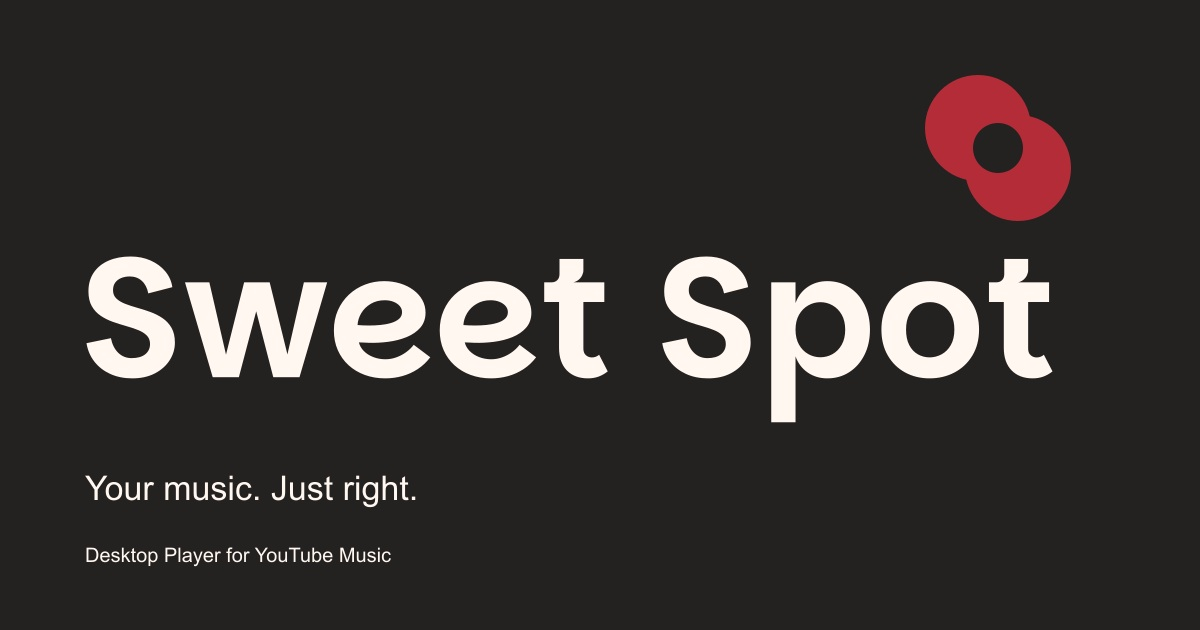
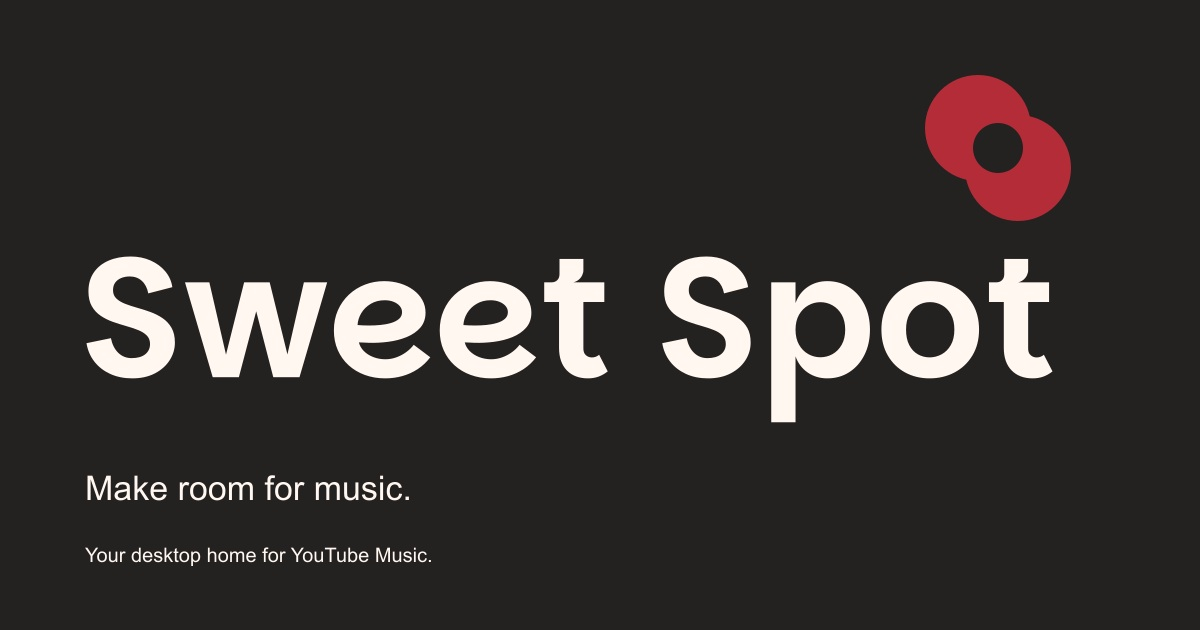
Release Sweet Spot 1.0.1 and refresh website downloads

Changed region(s): [[0.0617, 0.754, 0.3392, 0.8143], [0.0617, 0.8746, 0.37, 0.9048]]

diff --git a/apps/docs/app/(home)/page.tsx b/apps/docs/app/(home)/page.tsx
@@ -1,11 +1,9 @@
 import { PlayerHero } from "@/components/player-hero";
 import { SoundArtwork } from "@/components/sound-artwork";
-import { BrandWordmark } from "@/components/brand-wordmark";
 import { ReleaseDownloadPanel } from "@/components/release-download-panel";
 import { getLatestReleasesByChannel } from "@/lib/github";
 import { assetPath } from "@/lib/paths";
 import {
-  BookOpen,
   Bot,
   ArrowUpRight,
   SlidersHorizontal,
@@ -43,26 +41,20 @@ export default async function HomePage() {
     <main className="ss-home">
       <section className="ss-hero">
         <div className="ss-hero-copy">
-          <p className="ss-eyebrow">YOUR DESKTOP. YOUR LISTENING ROOM.</p>
-          <BrandWordmark width={260} />
           <h1>
-            Your music.
+            Make room
             <br />
-            <span>Just right.</span>
+            for music.
           </h1>
           <p className="ss-intro">
-            YouTube Music, with room to make it yours. A dedicated player, thoughtful sound
-            controls, and AI assistant connections through MCP.
+            Your desktop home for YouTube Music.
           </p>
           <div className="ss-actions">
             <a className="ss-button ss-button-primary" href="#download">
               Get Sweet Spot <ArrowUpRight size={17} />
             </a>
-            <Link className="ss-button" href="/docs">
-              Explore the docs <BookOpen size={17} />
-            </Link>
-            <Link className="ss-button" href="/docs/integrations/mcp">
-              Connect your AI assistant <Bot size={17} />
+            <Link className="ss-hero-docs-link" href="/docs">
+              Read the docs <ArrowUpRight size={15} />
             </Link>
           </div>
           <p className="ss-caption">For Windows and macOS · Open source</p>

diff --git a/apps/docs/lib/github.ts b/apps/docs/lib/github.ts
@@ -1,4 +1,5 @@
 import { createFetch } from "@better-fetch/fetch";
+import preparedRelease from "@/content/releases/1.0.1.json";
 import {
   type LatestRelease,
   type ReleaseChannel,
@@ -68,6 +69,8 @@ function mapRelease(data: GitHubReleaseResponse): LatestRelease {
         .join("\n") ?? null,
     prerelease: data.prerelease,
     draft: data.draft,
+    distribution_notice: data.tag_name === preparedRelease.tag_name ? preparedRelease.distribution_notice : undefined,
+    checksum_url: data.assets.find((asset) => asset.name === "SHA256SUMS.txt")?.browser_download_url,
     assets: listUserDownloads(data.assets).map((asset) => ({
       name: asset.name,
       browser_download_url: asset.browser_download_url,
@@ -167,8 +170,11 @@ export async function listReleases(options?: {
       }
     }
   } catch {
-    return releases;
+    // Keep the prepared download catalog available when GitHub is unreachable or private.
   }
 
+  if (releases.length === 0 && (!preparedRelease.prerelease || includePrereleases)) {
+    releases.push(preparedRelease);
+  }
   return releases;
 }

diff --git a/apps/docs/components/release-download-panel.tsx b/apps/docs/components/release-download-panel.tsx
@@ -227,6 +227,11 @@ export function ReleaseDownloadPanel({ releases }: ReleaseDownloadPanelProps) {
       </div>
 
       <h2 className="text-xl font-semibold tracking-tight">{release.name}</h2>
+      {release.distribution_notice ? (
+        <p className="mt-3 rounded-xl border bg-fd-secondary/40 px-3 py-2.5 text-sm text-fd-muted-foreground">
+          {release.distribution_notice}
+        </p>
+      ) : null}
       <p className="mt-1 text-sm text-fd-muted-foreground">
         Published {formatReleaseDate(release.published_at)}
         {channel !== "stable" ? ` · ${RELEASE_CHANNEL_LABELS[channel]}` : ""}
@@ -315,6 +320,12 @@ export function ReleaseDownloadPanel({ releases }: ReleaseDownloadPanelProps) {
           </a>
         </div>
       )}
+
+      {release.checksum_url ? (
+        <a href={release.checksum_url} className="mt-4 inline-flex text-xs text-fd-muted-foreground hover:text-fd-foreground hover:underline">
+          SHA-256 checksums
+        </a>
+      ) : null}
 
       <a
         href={release.html_url}

diff --git a/apps/docs/app/global.css b/apps/docs/app/global.css
@@ -73,15 +73,16 @@ html > body[data-scroll-locked] {
   padding-bottom: 72px;
 }
 .ss-hero h1 {
-  font-size: clamp(52px, 6.4vw, 84px);
-  line-height: 1.03;
-  letter-spacing: -0.045em;
+  font-size: clamp(36px, 4.2vw, 56px);
+  line-height: 1.12;
+  letter-spacing: -0.035em;
   font-weight: 600;
-  margin: 30px 0 24px;
+  margin: 0 0 18px;
 }
-.ss-hero h1 span {
-  color: #b52c39;
-}
+.ss-hero-docs-link { display: inline-flex; align-items: center; gap: 8px; padding: 12px 0; font-size: 13px; color: var(--color-fd-muted-foreground); }
+.ss-hero-docs-link:hover { color: var(--color-fd-foreground); }
+.ss-hero-copy .ss-actions { align-items: center; gap: 24px; margin-top: 24px; }
+.ss-hero-copy .ss-caption { margin-top: 20px; }
 .ss-intro {
   font-size: 17px;
   line-height: 1.7;

diff --git a/apps/docs/lib/shared.ts b/apps/docs/lib/shared.ts
@@ -90,9 +90,9 @@ export const siteUrl =
 export const brandColor = '#B52C39';
 export const brandColorRgb = '181, 44, 57';
 
-export const appTagline = 'Your music. Just right.';
+export const appTagline = 'Make room for music.';
 export const appDescription =
-  'YouTube Music for your desktop, with player skins, a ten-band equalizer, and synced lyrics.';
+  'Your desktop home for YouTube Music.';
 
 export const docsDescription = `Documentation for ${appName} — features, install, API, and changelog.`;
 

diff --git a/apps/docs/components/footer.tsx b/apps/docs/components/footer.tsx
@@ -23,7 +23,7 @@ export function Footer() {
             <Link href="/" aria-label="Sweet Spot home" className="ss-footer-logo">
               <Logo size={30} />
             </Link>
-            <p>Your music. Just right.</p>
+            <p>Make room for music.</p>
             <span>A little more room for the way you listen.</span>
             <span className="ss-footer-platforms">Windows · macOS</span>
           </div>

diff --git a/apps/docs/lib/downloads.ts b/apps/docs/lib/downloads.ts
@@ -16,6 +16,8 @@ export interface LatestRelease {
   assets: ReleaseAsset[];
   prerelease?: boolean;
   draft?: boolean;
+  distribution_notice?: string;
+  checksum_url?: string;
 }
 
 export type DownloadPlatform = "windows" | "macos";

diff --git a/README.md b/README.md
@@ -1,15 +1,18 @@
-<h2 align="center">
-    Sweet Spot for YouTube Music (sweetspot)
-</h2>
+<h1 align="center">Sweet Spot</h1>
 
 <p align="center">
-Your music. Just right. Desktop Player for YouTube Music.
+  Make room for music.<br />
+  Your desktop home for YouTube Music.
 </p>
 
-Website: [sweetspot.bkk.ooo](https://sweetspot.bkk.ooo). App updates and downloads are published through [GitHub Releases](https://github.com/hybridknight/sweetspot/releases).
+<p align="center">
+  <a href="https://sweetspot.bkk.ooo">Website</a> ·
+  <a href="https://github.com/hybridknight/sweetspot/releases">Downloads</a> ·
+  <a href="https://sweetspot.bkk.ooo/docs">Documentation</a>
+</p>
 
 <p align="center">
-  <img src="./apps/docs/public/images/opengraph-banner.png" alt="sweetspot" />
+  <img src="./apps/docs/public/images/opengraph-banner.png" alt="Sweet Spot — Make room for music." />
 </p>
 
 <p align="center">
@@ -17,72 +20,88 @@ Website: [sweetspot.bkk.ooo](https://sweetspot.bkk.ooo). App updates and downloa
   <img alt="Last commit" src="https://img.shields.io/github/last-commit/hybridknight/sweetspot?style=for-the-badge" />
 </p>
 
-## Features
+Sweet Spot brings YouTube Music into a dedicated desktop player with customizable skins, thoughtful sound controls, synced lyrics, and optional connections to your AI assistant.
 
-### Player mode and sound
+## Get started
 
-Seven built-in player skins, a ten-band equalizer with presets, consistent volume, smooth play/pause, and optional song fades.
+1. Download a build for your computer from [the website](https://sweetspot.bkk.ooo) or [GitHub Releases](https://github.com/hybridknight/sweetspot/releases).
+2. Install Sweet Spot and sign in to YouTube Music.
+3. Open **Settings → Appearance → Player skins** to choose a look and open the dedicated player.
 
-![Player skins](./apps/docs/public/screenshots/skins.png)
+See the [installation guide](https://sweetspot.bkk.ooo/docs/install) for platform details and first-launch help.
 
-### Tray view
+## Make it yours
 
-Compact now-playing popup from the system tray.
+| Feature | What you can do |
+| --- | --- |
+| [Player skins](https://sweetspot.bkk.ooo/docs/features/player) | Choose from seven built-in looks and customize the player’s panels, colors, and layout. |
+| [Sound controls](https://sweetspot.bkk.ooo/docs/features/equalizer) | Shape playback with a ten-band equalizer, presets, and automatic headroom. |
+| [Playback](https://sweetspot.bkk.ooo/docs/features/playback) | Keep volume consistent, soften play and pause, add optional song fades, and watch supported music videos. |
+| [Synced lyrics](https://sweetspot.bkk.ooo/docs/features/lyrics) | Follow timed lyrics from Better Lyrics, Unison, LRCLib, and YouTube captions. |
+| [Themes](https://sweetspot.bkk.ooo/docs/features/themes) | Style the full YouTube Music interface with built-in themes or your own CSS, SCSS, or Sass. |
+| [Tray controls](https://sweetspot.bkk.ooo/docs/features/tray-view) | Check what’s playing and control music from a compact tray popup. |
+| [Shared links](https://sweetspot.bkk.ooo/docs/features/shared-links) | Open tracks, playlists, and channels in the app through `ssytm://` links. |
 
-![Tray view](./apps/docs/public/screenshots/tray.png)
+## Connect your tools
 
-### Lyrics
+Enable **Settings → AI & MCP** to connect a compatible desktop AI assistant. The opt-in MCP server provides current playback and queue information, with optional playback controls. It runs on localhost and requires a paired-client token.
 
-Timed lyrics in the player (Better Lyrics, Unison, LRCLIB).
+For your own scripts and integrations, Sweet Spot also exposes a local HTTP and WebSocket API.
 
-![Synced lyrics](./apps/docs/public/screenshots/lyrics.png)
+- [Set up MCP](https://sweetspot.bkk.ooo/docs/integrations/mcp)
+- [Explore the local API](https://sweetspot.bkk.ooo/docs/api)
 
-### Themes
+Paired-client credentials are encrypted, with their encryption keys protected by the operating system. On macOS, this uses Keychain. Read the [local data and privacy guide](https://sweetspot.bkk.ooo/docs/internals/encrypted-stores) for storage details and permission prompts.
 
-Bundled or custom SCSS/CSS for the YouTube Music UI.
+## Develop locally
 
-![Themes](./apps/docs/public/screenshots/themes.png)
+Build and run the desktop app on Windows or macOS. You’ll need **Node.js 24.14+**, **pnpm 11+** (the repository pins its version in `package.json`), and **GitHub CLI** access to the native media dependency on GitHub Packages.
 
-### Shared links (`ssytm://`)
-
-Open tracks, playlists, and channels in the app (`ssytm://` or swap `https://` on music.youtube.com URLs).
-
-More detail in [`apps/docs/content/docs/features`](./apps/docs/content/docs/features).
-
-### Protected local credentials
-
-Sweet Spot encrypts paired-client credentials and lets your operating system protect the encryption keys. On macOS, this uses Keychain. Disposable caches do not request keychain access, and pairing storage opens only when needed. Read the [local data and privacy guide](apps/docs/content/docs/internals/encrypted-stores.mdx) for what a macOS permission prompt means.
-
-## Project setup
-
-Monorepo (pnpm). App: [`apps/sweetspot`](./apps/sweetspot).
+From the repository root:
 
 ```bash
-# gh required for the native media package on GitHub Packages
+gh auth login
 gh auth refresh -s read:packages
 pnpm deps:install
-
-# Optional: copy local app settings (GitHub repository, website, etc.)
-cp apps/sweetspot/.env.local.example apps/sweetspot/.env.local
-
 pnpm dev
 ```
 
-`pnpm deps:install` uses your GitHub CLI login (or `NODE_AUTH_TOKEN`) for private package access through a temporary configuration.
+If you’re already signed in to GitHub CLI, skip `gh auth login`. The dependency installer uses that login, or `NODE_AUTH_TOKEN`, through a temporary configuration.
+
+To customize local repository and website settings, copy the optional environment file before starting:
+
+```bash
+cp apps/sweetspot/.env.local.example apps/sweetspot/.env.local
+```
+
+Development uses a separate app profile from installed releases. See [Build from source](https://sweetspot.bkk.ooo/docs/build) for profile behavior, native dependencies, and packaging instructions.
+
+### Workspace
+
+| Path | Purpose |
+| --- | --- |
+| [`apps/sweetspot`](apps/sweetspot) | Electron desktop app |
+| [`apps/docs`](apps/docs) | Website and documentation |
+| [`packages/userscript`](packages/userscript) | Browser userscript for shared links |
+
+### Useful commands
+
+| Command | Purpose |
+| --- | --- |
+| `pnpm dev` | Start the desktop app in development mode |
+| `pnpm build` | Type-check and build the desktop app |
+| `pnpm test` | Run the test suite |
+| `pnpm docs:dev` | Start the documentation website |
+| `pnpm docs:build` | Build the documentation website |
+| `pnpm build:win` / `pnpm build:mac` | Package the desktop app for the selected platform |
+
+## Inspiration
+
+Inspired by the upstream desktop music community, th-ch / Pear Desktop, Better Lyrics, and LRCLIB. Their work helped shape the ideas and approaches behind Sweet Spot.
 
 ## License
 
 The desktop app and documentation use [CC0-1.0](LICENSE). The [userscript](packages/userscript/LICENSE) retains its separate MIT license. Third-party dependencies and assets retain their original licenses and required notices, including the [Inter font license](apps/docs/assets/fonts/inter-OFL.txt).
-
-## Inspiration
-
-The upstream desktop music community and th-ch / Pear Desktop inspired a lot of my own work on this project: ideas, approaches, and the wider desktop YouTube Music space. Also Better Lyrics and LRCLIB. Grateful they exist.
-
-## Contributors
-
-<a href="https://github.com/hybridknight/sweetspot/graphs/contributors">
-  <img src="https://contrib.rocks/image?repo=hybridknight/sweetspot" alt="Contributors" />
-</a>
 
 <p align="center">
   <picture>
@@ -91,7 +110,3 @@ The upstream desktop music community and th-ch / Pear Desktop inspired a lot of 
     <img alt="Star History Chart" src="https://api.star-history.com/svg?repos=hybridknight/sweetspot&type=Date" />
   </picture>
 </p>
-
-### AI assistants & MCP
-
-Connect a desktop AI assistant from **Settings → AI & MCP**. The opt-in, localhost-only MCP server exposes current playback and queue information, with optional playback controls and mandatory paired-client tokens. Follow the [MCP setup guide](apps/docs/content/docs/integrations/mcp.mdx).

diff --git a/assets/branding/README.md b/assets/branding/README.md
@@ -15,9 +15,9 @@ The symbol uses two offset lobes around a transparent central aperture, represen
 - `identity.json`: selected typography, palette, and official copy.
 - `brand-preview.png`: contact sheet of the actual production exports.
 
-Primary tagline: **Your music. Just right.**
+Primary tagline: **Make room for music.**
 
-Descriptor: **Desktop Player for YouTube Music**.
+Descriptor: **Your desktop home for YouTube Music.**
 
 Palette: **Crimson & Ink** — ink `#242121`, warm white `#FFF7F0`, crimson `#B52C39`, warm gray `#B2A39B`, surface `#393331`.
 
